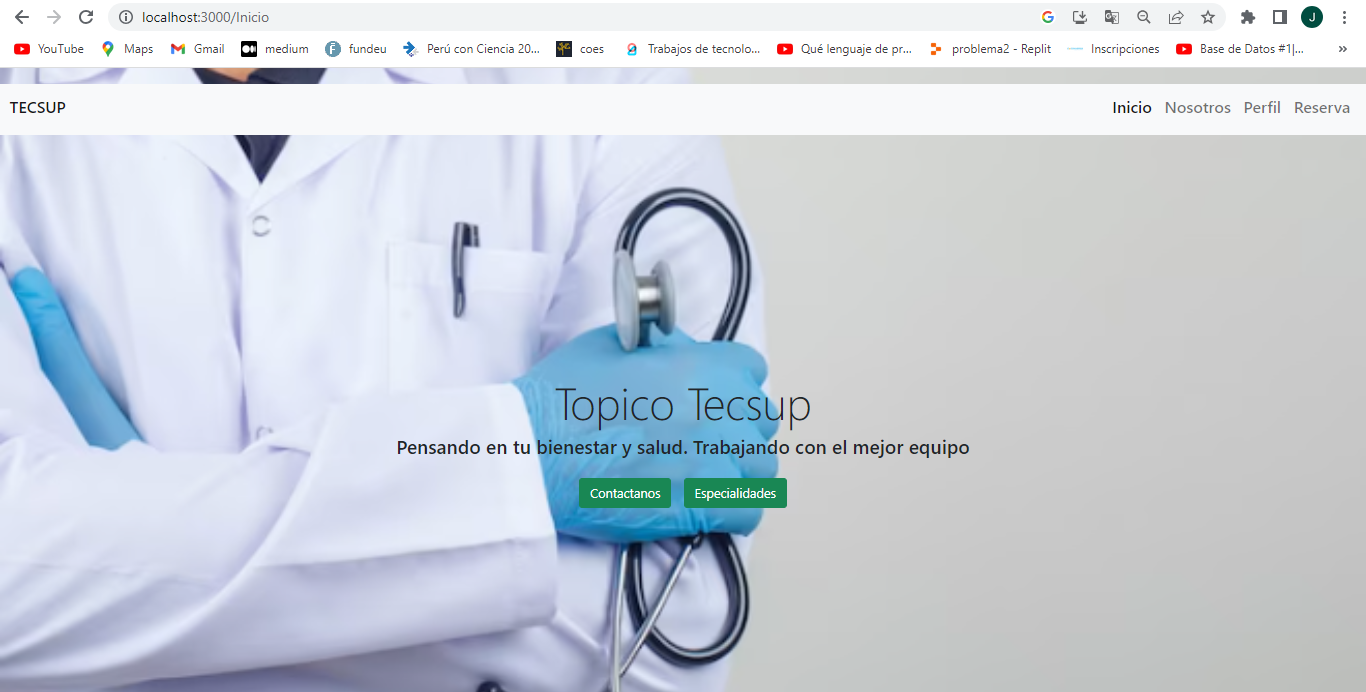
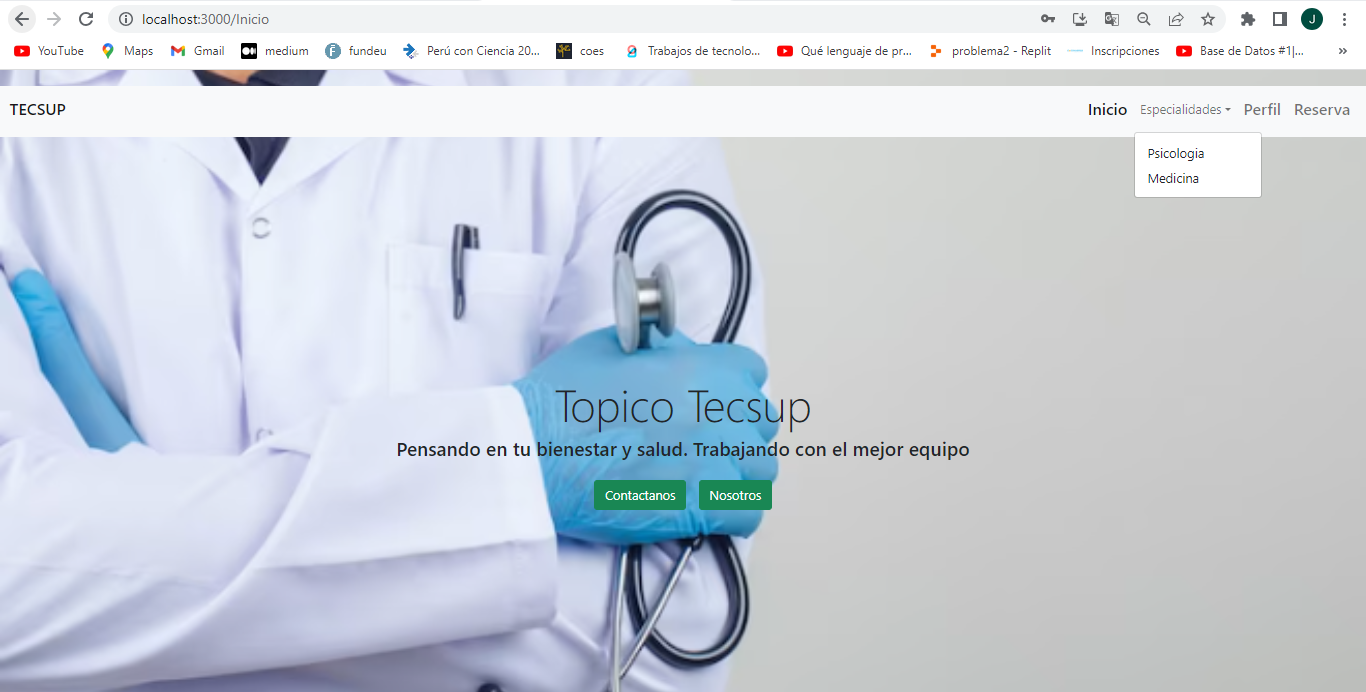
Tercer commit

diff --git a/login_react/src/components/Contactos.js b/login_react/src/components/Contactos.js
@@ -1,26 +1,24 @@
 import React from 'react';
 import { NavLink } from 'react-router-dom';
 import { Link } from 'react-router-dom';
-import backgroundImage from './img/iniciotec.png';
-import "./css/TuPagina.css";
-
-export const Inicio = () => {
+import "./css/contactos.css";
+export const Contactos = () => {
   return (
     <html>
     <head>
 
     </head>
     <body>
-    <div className="pagina">
-      <div id="caja_menu" style={{ textAlign: "left" }}>
+    <div class="pagina_contactos">
+        <div id="caja_menu" style={{ textAlign: "left" }}>
         <nav className="navbar navbar-expand-lg navbar-light bg-light" style={{ marginTop: 20 }}>
-          <div className="container-fluid">
+            <div className="container-fluid">
             <label className="navbar-brand h5" href=" ">TECSUP</label>
             <button className="navbar-toggler" type="button" data-bs-toggle="collapse" data-bs-target="#navbarNavAltMarkup" aria-controls="navbarNavAltMarkup" aria-expanded="false" aria-label="Toggle navigation">
-              <span className="navbar-toggler-icon"></span>
+                <span className="navbar-toggler-icon"></span>
             </button>
             <div className="collapse navbar-collapse justify-content-end" id="navbarNavAltMarkup">
-              <div className="navbar-nav">
+                <div className="navbar-nav">
                 <NavLink to="/Inicio" className="nav-link h5 text-center" activeClassName="active">Inicio</NavLink>
                 <li class="nav-item dropdown">
                   <a class="nav-link dropdown-toggle" href="#" role="button" data-bs-toggle="dropdown" aria-expanded="false">
@@ -33,22 +31,29 @@ export const Inicio = () => {
                 </li>
                 <NavLink to="/" className="nav-link h5 text-center" activeClassName="active">Perfil</NavLink>
                 <NavLink to="/Reserva" className="nav-link h5 text-center" activeClassName="active">Reserva</NavLink>
-              </div>
+                </div>
             </div>
-          </div>
+            </div>
         </nav>
-      </div>
-      <div className="content">
-        <h1 className="text-center display-4">Topico Tecsup</h1>
-        <p className="text-center h4">Pensando en tu bienestar y salud. Trabajando con el mejor equipo</p>
-        <div className="form-group mt-4 text-center">
-          <Link className="btn btn-success mx-2" to="/Contactos">Contactanos</Link>
-          <Link className="btn btn-success mx-2" to="">Nosotros</Link>
         </div>
-      </div>
 
+        <div class="contenido">
+        <div class="rectangulo">
+            <h2>Datos de contacto:</h2>
+            <ul>
+            <li>Celular: 983752528</li>
+            <li>Teléfono: +5165234273</li>
+            <li>E-mail: tec.topic@tecsup.edu.pe</li>
+            </ul>
+        </div>
+        </div>
+
+        <div class="footer">
+        &copy; 2021, Tecsup. All Rights Reserved.
+        </div>
     </div>
     </body>
     </html>
+
   );
 };

diff --git a/login_react/src/components/Especialidades.js b/login_react/src/components/Especialidades.js
@@ -1,26 +1,24 @@
 import React from 'react';
 import { NavLink } from 'react-router-dom';
 import { Link } from 'react-router-dom';
-import backgroundImage from './img/iniciotec.png';
-import "./css/TuPagina.css";
-
-export const Inicio = () => {
+import "./css/especialidades.css";
+export const Especialidades = () => {
   return (
     <html>
     <head>
 
     </head>
     <body>
-    <div className="pagina">
-      <div id="caja_menu" style={{ textAlign: "left" }}>
+    <div class="pagina_especialidades">
+        <div id="caja_menu" style={{ textAlign: "left" }}>
         <nav className="navbar navbar-expand-lg navbar-light bg-light" style={{ marginTop: 20 }}>
-          <div className="container-fluid">
+            <div className="container-fluid">
             <label className="navbar-brand h5" href=" ">TECSUP</label>
             <button className="navbar-toggler" type="button" data-bs-toggle="collapse" data-bs-target="#navbarNavAltMarkup" aria-controls="navbarNavAltMarkup" aria-expanded="false" aria-label="Toggle navigation">
-              <span className="navbar-toggler-icon"></span>
+                <span className="navbar-toggler-icon"></span>
             </button>
             <div className="collapse navbar-collapse justify-content-end" id="navbarNavAltMarkup">
-              <div className="navbar-nav">
+                <div className="navbar-nav">
                 <NavLink to="/Inicio" className="nav-link h5 text-center" activeClassName="active">Inicio</NavLink>
                 <li class="nav-item dropdown">
                   <a class="nav-link dropdown-toggle" href="#" role="button" data-bs-toggle="dropdown" aria-expanded="false">
@@ -33,20 +31,15 @@ export const Inicio = () => {
                 </li>
                 <NavLink to="/" className="nav-link h5 text-center" activeClassName="active">Perfil</NavLink>
                 <NavLink to="/Reserva" className="nav-link h5 text-center" activeClassName="active">Reserva</NavLink>
-              </div>
+                </div>
             </div>
-          </div>
+            </div>
         </nav>
-      </div>
-      <div className="content">
-        <h1 className="text-center display-4">Topico Tecsup</h1>
-        <p className="text-center h4">Pensando en tu bienestar y salud. Trabajando con el mejor equipo</p>
-        <div className="form-group mt-4 text-center">
-          <Link className="btn btn-success mx-2" to="/Contactos">Contactanos</Link>
-          <Link className="btn btn-success mx-2" to="">Nosotros</Link>
         </div>
-      </div>
 
+        <div class="footer">
+        &copy; 2021, Tecsup. All Rights Reserved.
+        </div>
     </div>
     </body>
     </html>

diff --git a/login_react/src/components/Reserva.js b/login_react/src/components/Reserva.js
@@ -15,7 +15,15 @@ export const Reserva = () => {
                 <div className="collapse navbar-collapse justify-content-end" id="navbarNavAltMarkup">
                 <div className="navbar-nav">
                     <NavLink to="/Inicio" className="nav-link h5 text-center" activeClassName="active">Inicio</NavLink>
-                    <NavLink to="/" className="nav-link h5 text-center" activeClassName="active">Nosotros</NavLink>
+                    <li class="nav-item dropdown">
+                  <a class="nav-link dropdown-toggle" href="#" role="button" data-bs-toggle="dropdown" aria-expanded="false">
+                    Especialidades
+                  </a>
+                  <ul class="dropdown-menu">
+                    <li><a class="dropdown-item" href="/psicologia">Psicologia</a></li>
+                    <li><a class="dropdown-item" href="/medicina">Medicina</a></li>
+                  </ul>
+                </li>
                     <NavLink to="/" className="nav-link h5 text-center" activeClassName="active">Perfil</NavLink>
                     <NavLink to="/Reserva" className="nav-link h5 text-center" activeClassName="active">Reserva</NavLink>
                 </div>

diff --git a/login_react/src/App.js b/login_react/src/App.js
@@ -5,6 +5,8 @@ import {Login} from './components/Login'
 import { Registrar } from './components/Registrar'
 import { Reserva } from './components/Reserva';
 import { Inicio } from './components/Inicio';
+import { Contactos } from './components/Contactos';
+import { Especialidades } from './components/Especialidades';
 
 function App() {
   return (
@@ -16,6 +18,8 @@ function App() {
         <Route exact path="/Inicio" element={<Inicio/>}/>
         <Route exact path="/Registrar" element={<Registrar/>}/>
         <Route exact path="/Reserva" element={<Reserva/>}/>
+        <Route exact path="/Contactos" element={<Contactos/>}/>
+        <Route exact path="/Especialidades" element={<Especialidades/>}/>
       </Routes>
       </BrowserRouter> 
     </div>

diff --git a/login_react/src/components/css/contactos.css b/login_react/src/components/css/contactos.css
@@ -1,0 +1,32 @@
+
+body {
+  margin: 0;
+  padding: 0;
+}
+
+.pagina_contactos {
+  display: flex;
+  flex-direction: column;
+  min-height: 100vh;
+}
+
+.contenido {
+  flex: 1;
+  display: flex;
+  justify-content: center;
+  align-items: center;
+}
+
+.rectangulo {
+  width: 50%;
+  max-width: 600px;
+  background-color: lightgray;
+  border: 1px solid gray;
+  padding: 20px;
+}
+
+.footer {
+  background-color: lightgray;
+  padding: 20px;
+  text-align: center;
+}

diff --git a/login_react/src/components/css/especialidades.css b/login_react/src/components/css/especialidades.css
@@ -1,0 +1,25 @@
+
+body {
+    margin: 0;
+    padding: 0;
+  }
+  
+  .pagina_especialidades {
+    display: flex;
+    flex-direction: column;
+    min-height: 100vh;
+  }
+  
+  .contenido {
+    flex: 1;
+    display: flex;
+    justify-content: center;
+    align-items: center;
+  }
+  
+  
+  .footer {
+    background-color: lightgray;
+    padding: 20px;
+    text-align: center;
+  }
